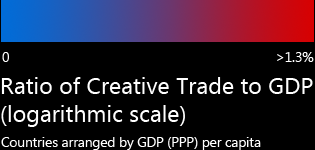
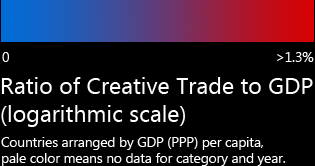
installation version

Changed region(s): [[0.0, 0.4533, 1.0, 1.0], [0.0, 0.24, 1.0, 0.4267]]

diff --git a/dataloop_keyctl.py b/dataloop_keyctl.py
@@ -139,8 +139,8 @@ def updateLights( A, values ):   # A from 0..1;  assume values same size array
 #220 to 340
             if V[i]==0:
                 h[k] = 210
-                s[k] = 1
-                l[k] = 0.52
+                s[k] = 0.37 #0.35
+                l[k] = 0.60 #0.52
             else:
                 x = math.log10(V[i])/2.5 + 1.75 # from 0 to 1
                 h[k] = scale(clip(x),0,1,210,360)
@@ -185,9 +185,9 @@ def mainLoop(name, g):
 				# only listen to keys 1-9
 				if(key>48 and key<58):
 						val = key-48
-						config.yearWait = val * 0.6
-						config.xfTime = val * 0.6
-				print "year wait is ",config.yearWait
+						config.yearWait = math.pow(1.75,val) *0.15
+						config.xfTime = math.pow(1.35,val) *0.5
+				print "year wait is ",config.yearWait, "xfTime is", config.xfTime
 				sleep(config.yearWait)
 				updateCountries(config.categories.index(cat), config.years.index(year),buildCountries(year, cat))
 
@@ -216,6 +216,8 @@ if __name__ == "__main__":
     application.listen(8082)
     #tornado.ioloop.PeriodicCallback(res, 1)
 
+    respondToKey(54)
+	
     # cannot seem to start these both simultaneously... they're mutually exclusive.
     # can't find a simple thread manager pattern that lets me at least exchange a key stroke...
     thread.start_new_thread(mainLoop, ("loop thread",g))

diff --git a/config.py b/config.py
@@ -2,7 +2,7 @@
 
 # debug param for testing data w/o lighting
 # set to true, to send to light
-light = False
+light = True
 
 # in seconds:
 categoryWait = 0
